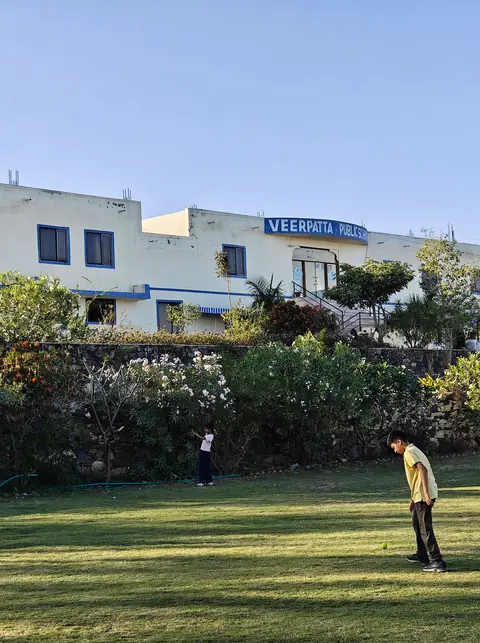
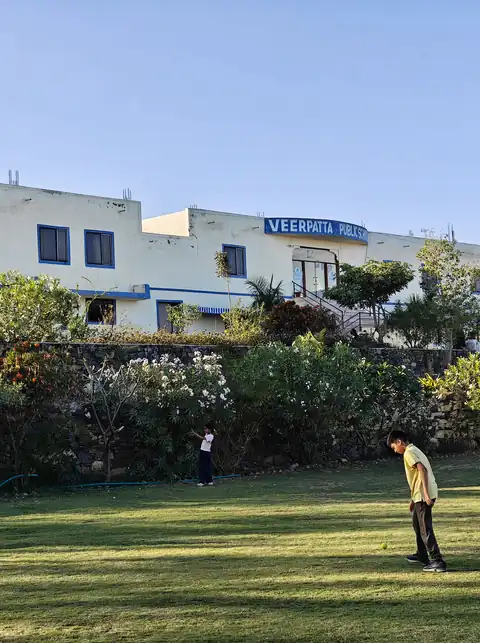
perf: lighter phone hero photo, a little more of it visible
The portrait hero crop only ever shows under the dark overlay, so it is
encoded at quality 55 (manifest gains a per-photo "quality"): 144 KB to
117 KB at 800w, the size most phones pick. The phone overlay eases from
0.72-0.84 to 0.62-0.82 so the campus reads through; white hero text
stays well above 4.5:1.

diff --git a/assets/css/design.css b/assets/css/design.css
@@ -1552,7 +1552,7 @@ section.container.contact-teaser {
 .dc-hero-photo img[loading] { background: transparent; }
 /* On phones the hero copy spans the full width, so the photo sits under an
    even scrim; from 768px the design's left-to-right scrim takes over. */
-.dc-hero--photo .dc-hero-scrim { background: linear-gradient(180deg, rgba(11,22,49,0.72) 0%, rgba(11,22,49,0.84) 100%); }
+.dc-hero--photo .dc-hero-scrim { background: linear-gradient(180deg, rgba(11,22,49,0.62) 0%, rgba(11,22,49,0.82) 100%); }
 @media (min-width: 768px) {
   .dc-hero--photo .dc-hero-scrim { background: linear-gradient(90deg, rgba(11,22,49,0.93) 0%, rgba(11,22,49,0.78) 42%, rgba(11,22,49,0.24) 100%); }
 }

diff --git a/scripts/optimize_photos.py b/scripts/optimize_photos.py
@@ -8,6 +8,7 @@ Reads scripts/photos-manifest.json. Each photo there is looked up as
   - rotated upright from its EXIF orientation,
   - cropped if the entry has a "crop" box (fractions of width/height),
   - resized to every width in "widths" that the original can supply,
+  - encoded at quality 74, or the entry's "quality" if it has one,
   - saved as assets/media/photos/<id>-<width>.webp with no EXIF, so no
     GPS location or camera details are published.
 It then rewrites _data/photos.yml, which the templates read.
@@ -60,7 +61,7 @@ def main(src_dir):
         for w in widths:
             h = round(im.height * w / im.width)
             out = os.path.join(OUT_DIR, f"{pid}-{w}.webp")
-            im.resize((w, h), Image.LANCZOS).save(out, "WEBP", quality=QUALITY, method=6)
+            im.resize((w, h), Image.LANCZOS).save(out, "WEBP", quality=p.get("quality", QUALITY), method=6)
             total += os.path.getsize(out)
         top = widths[-1]
         lines += [
